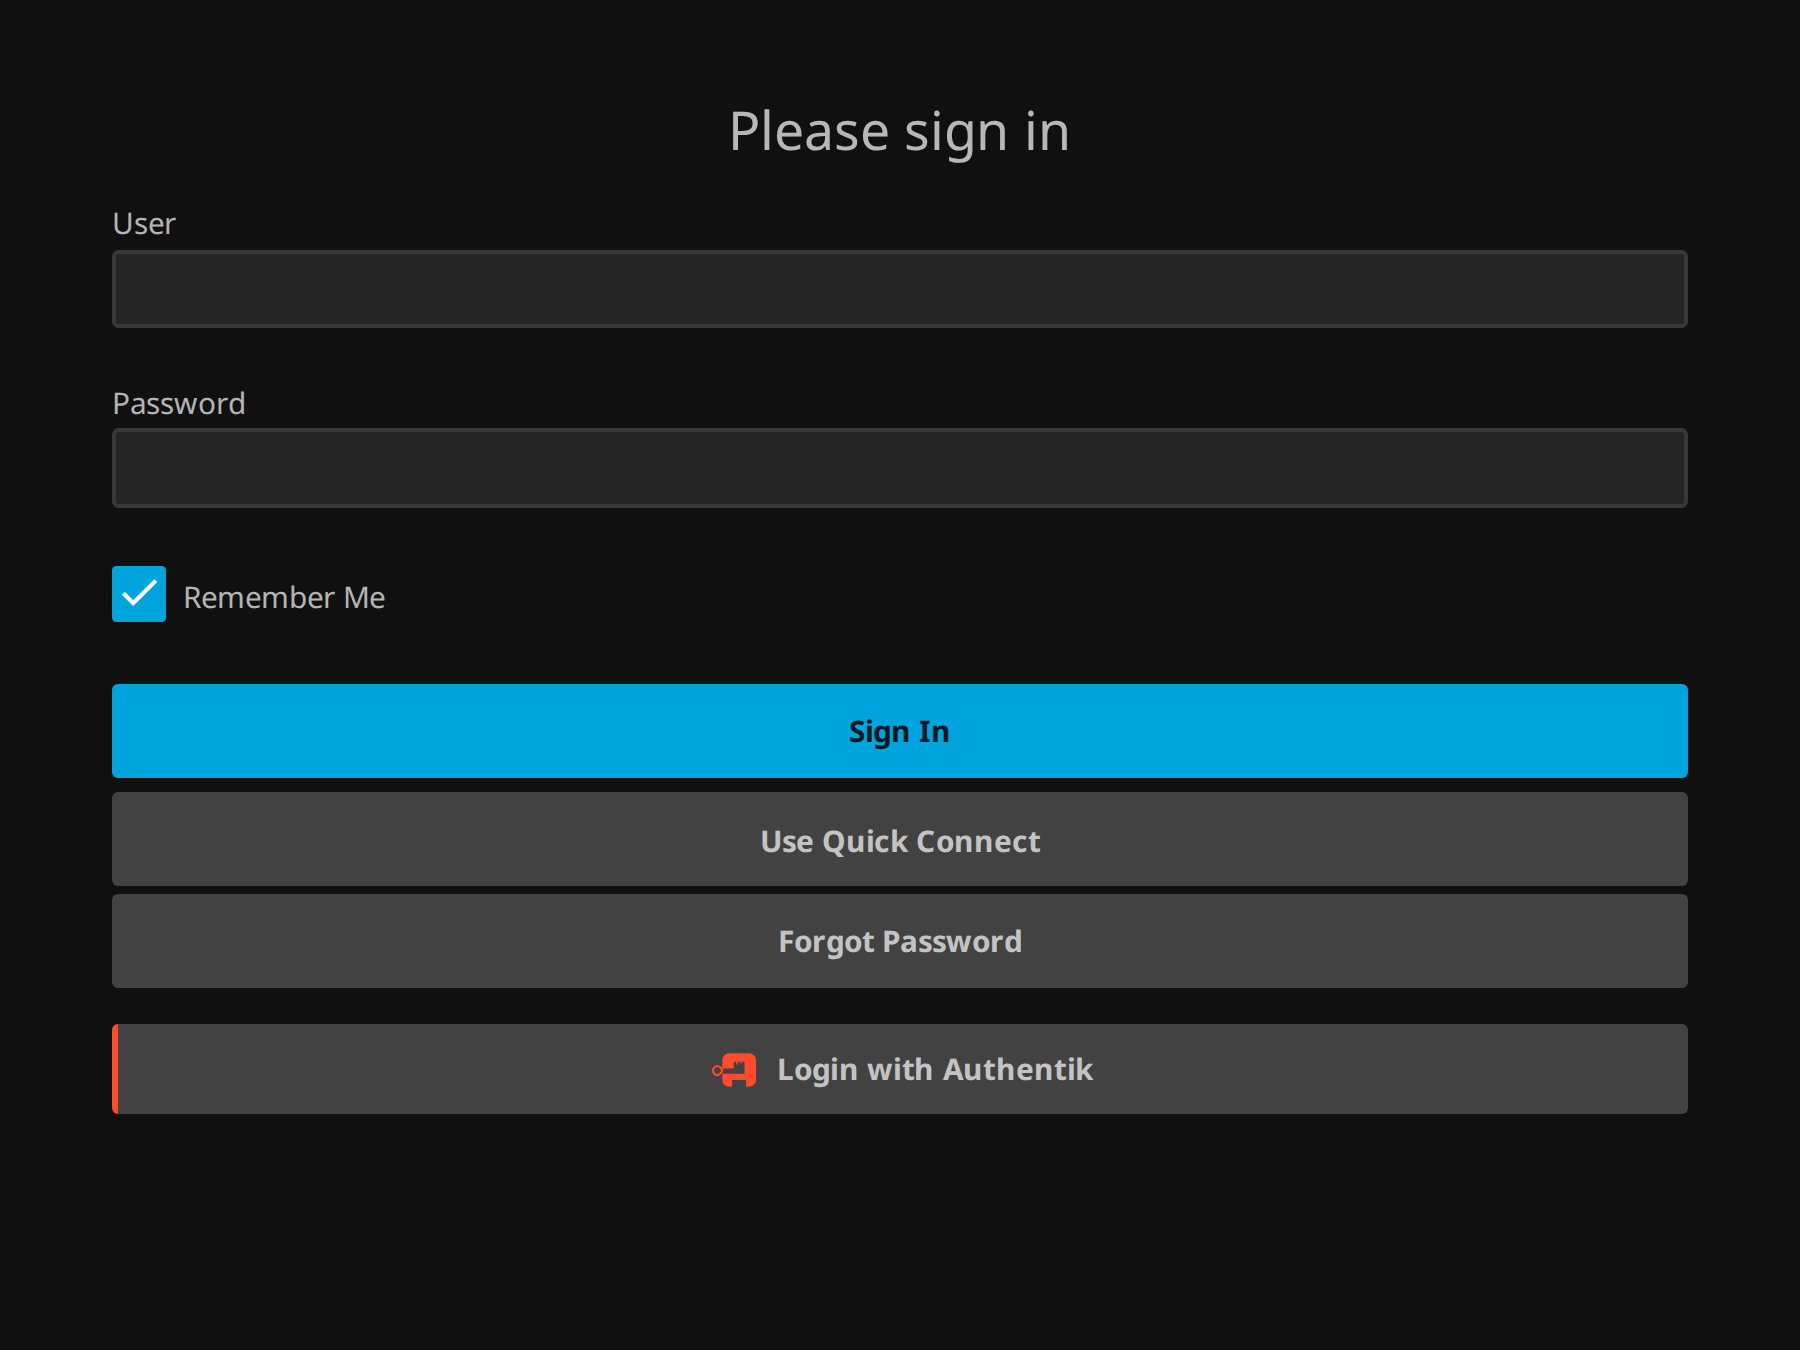
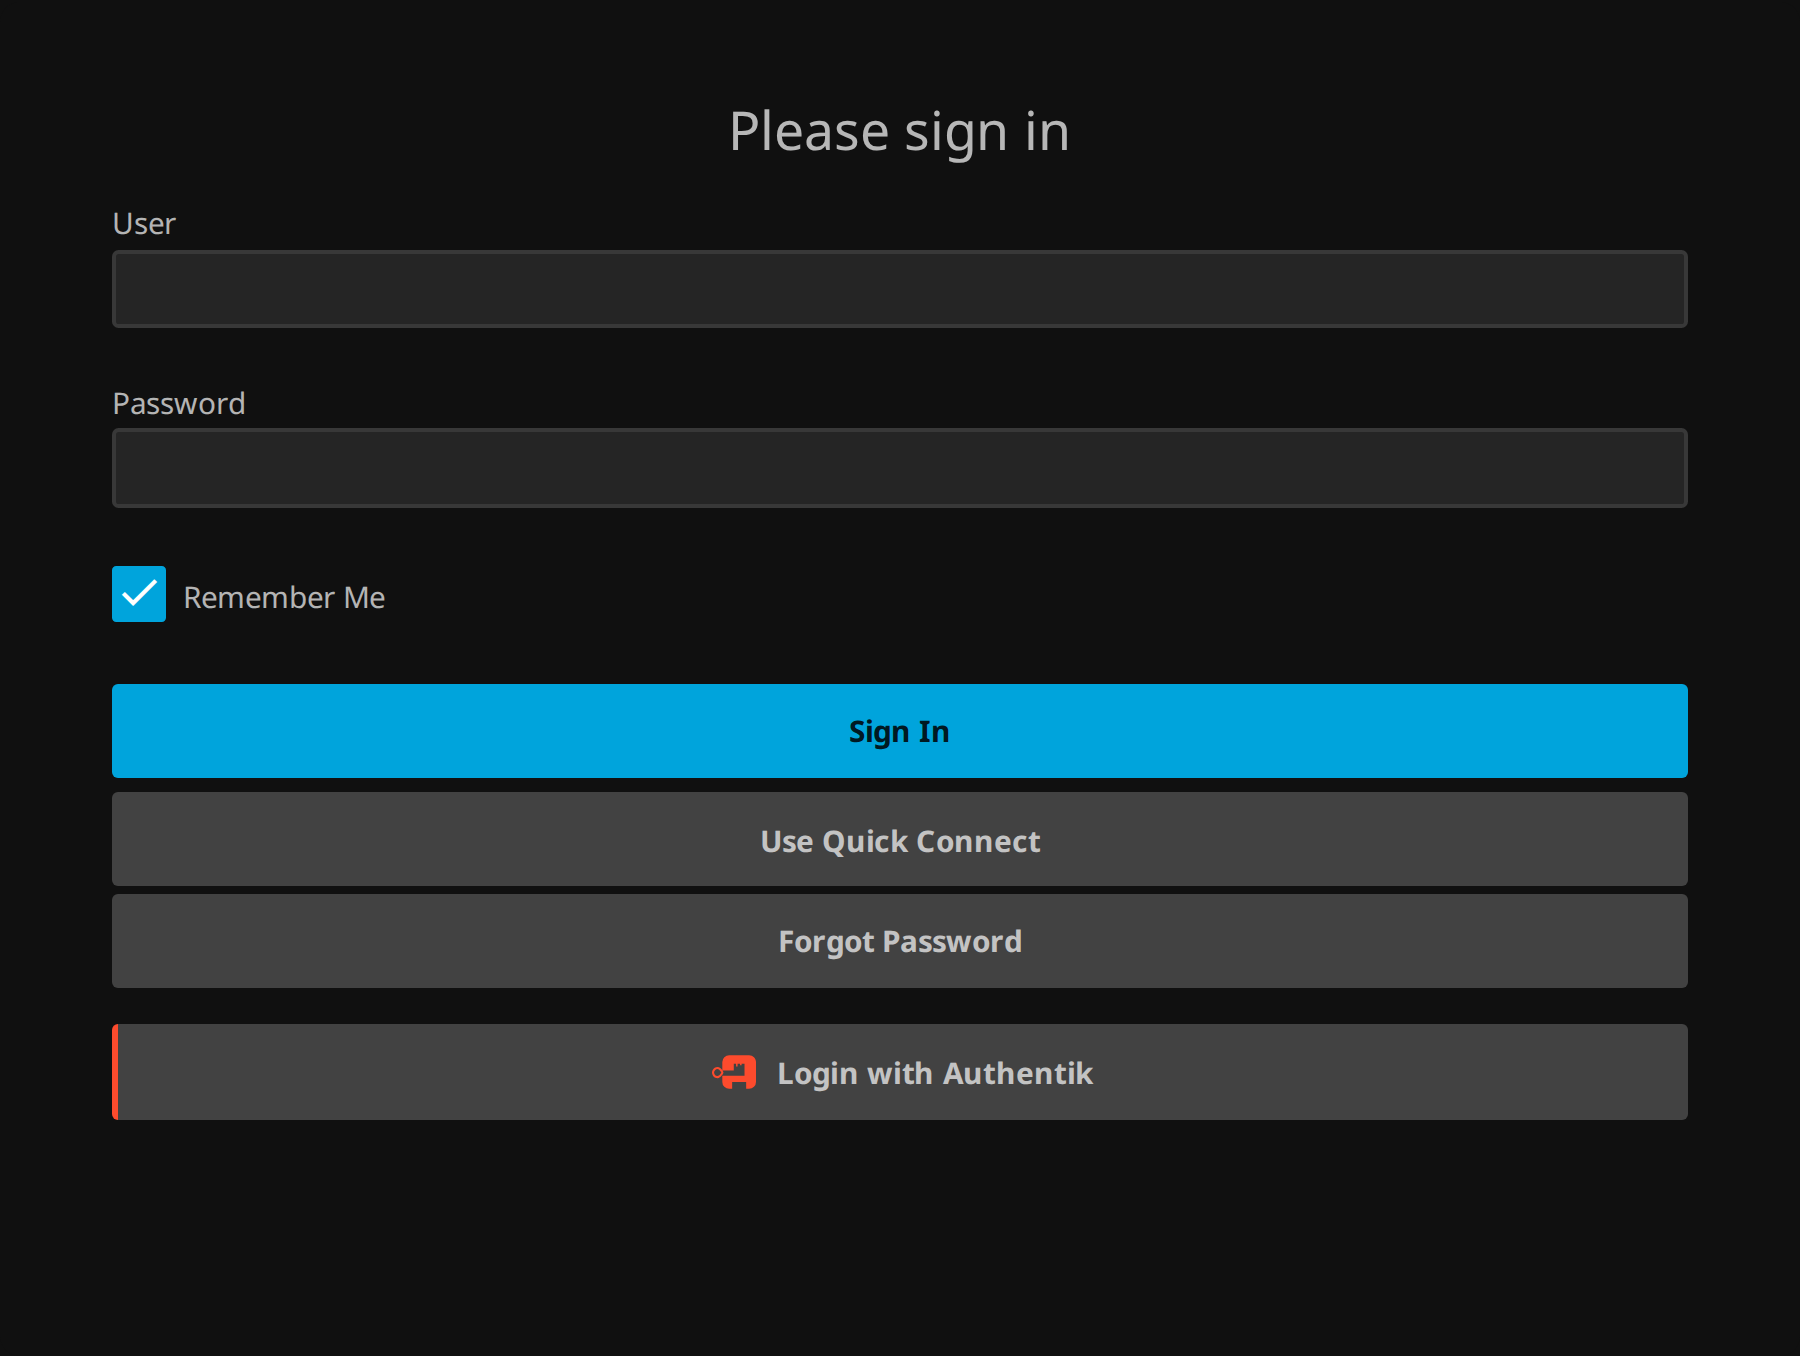
Make the login button start a login (#31)
The button has looked right since 1.12.6 and never worked. jellyfin-web
walks every link in the login disclaimer and rewrites it:

  elem.rel = 'noopener noreferrer';
  elem.target = '_blank';
  elem.setAttribute('is', 'emby-linkbutton');

and emby-button.js hands a target-less anchor to Jellyfin's own router,
which knows nothing about /sso/oidc/start and quietly re-renders the
login page. With a target it opens a second tab instead. No attribute
avoids it, because the controller overwrites rel and target itself.

So the button is a form now: method=get, action=/sso/oidc/start/{id},
with a submit button carrying the same classes and the same mark. A
submitted form is an ordinary navigation, and the rewrite only touches
anchors.

Two tests click a button instead of navigating to the start endpoint, as
every login test did until now — which is how markup that looked correct
passed everything:

  BrowserLoginTests.Clicking_the_button_on_the_login_page_signs_the_user_in
  LoginFormButtonTests.Clicking_the_button_in_the_form_signs_the_user_in

Closes #30

Claude-Session: https://claude.ai/code/session_01TvEDqocov32nLFTRQJQQ6m

diff --git a/Jellyfin.Plugin.Sso/Web/LoginButtonMarkup.cs b/Jellyfin.Plugin.Sso/Web/LoginButtonMarkup.cs
@@ -47,13 +47,14 @@ public static class LoginButtonMarkup
               // 3.7px right of the column of buttons above it; the branding stylesheet
               // is loaded before the app's, so equal specificity is not enough.
               // LoginButtonLayoutTests measures that.
-              + ".loginDisclaimer a.sso-login-button{display:flex;align-items:center;"
+              + ".loginDisclaimer .sso-login-form{margin:0;padding:0;width:100%;}"
+              + ".loginDisclaimer .sso-login-button{display:flex;align-items:center;"
               + "justify-content:center;gap:.7em;width:100%;box-sizing:border-box;"
               + "margin:.4em 0 0 !important;"
               + "font-weight:600;letter-spacing:.01em;"
               + "border-left:3px solid var(--sso-mark, #00a4dc);"
               + "transition:background .15s ease;}"
-              + ".loginDisclaimer a.sso-login-button:hover{background:#4a4a4a;}"
+              + ".loginDisclaimer .sso-login-button:hover{background:#4a4a4a;}"
               + ".sso-login-mark{flex:0 0 auto;display:block;}"
               + ".sso-login-label{display:block;font-weight:600;}"
               + string.Concat(providers.Select(p =>
@@ -86,20 +87,27 @@ public static class LoginButtonMarkup
                 ? "Login with SSO"
                 : $"Login with {provider.Name}";
 
+            // A form, not a link. jellyfin-web walks every <a> in the disclaimer and
+            // forces target="_blank" and is="emby-linkbutton" on it, and that element's
+            // click handler hands a target-less href to its own router — which does not
+            // know /sso/oidc/start and quietly re-renders the login page. So a link here
+            // either does nothing or opens the login in a second tab. A submitted form is
+            // an ordinary navigation that no router sees.
+            //
             // Inline styles are stripped from the disclaimer before it is rendered, so the
             // look has to come from Jellyfin's own classes: "emby-button block" makes a
-            // full-width button, "raised" gives it the secondary surface, and the themes
-            // style an anchor's text only under a[data-role=button] — without it the label
-            // keeps the link colour and disappears on a coloured button.
+            // full-width button and "raised" gives it the secondary surface. The classes
+            // only carry the styling; the behaviour that breaks links is attached to
+            // anchors alone.
             markup
-                .Append("<a data-role=\"button\" class=\"raised block emby-button sso-login-button\" ")
-                .Append("data-provider=\"")
-                .Append(WebUtility.HtmlEncode(provider.Id))
-                .Append("\" href=\"")
+                .Append("<form class=\"sso-login-form\" method=\"get\" action=\"")
                 .Append(prefix)
                 .Append("/sso/oidc/start/")
                 .Append(WebUtility.UrlEncode(provider.Id))
-                .Append("\"><img src=\"")
+                .Append("\"><button type=\"submit\" data-provider=\"")
+                .Append(WebUtility.HtmlEncode(provider.Id))
+                .Append("\" class=\"raised block emby-button sso-login-button\">")
+                .Append("<img src=\"")
                 .Append(prefix)
                 .Append("/sso/icon/provider/")
                 .Append(WebUtility.UrlEncode(provider.Id))
@@ -107,7 +115,7 @@ public static class LoginButtonMarkup
                 .Append("<span class=\"sso-login-label\">")
                 .Append(WebUtility.HtmlEncode(label))
                 .Append("</span>")
-                .Append("</a>");
+                .Append("</button></form>");
         }
 
         return markup.Append(End).ToString();

diff --git a/tests/Jellyfin.Plugin.Sso.E2eTests/BrowserLoginTests.cs b/tests/Jellyfin.Plugin.Sso.E2eTests/BrowserLoginTests.cs
@@ -77,6 +77,52 @@ public sealed class BrowserLoginTests : IAsyncLifetime
     }
 
     [Fact]
+    public async Task Clicking_the_button_on_the_login_page_signs_the_user_in()
+    {
+        _env.Idp.NextUser = new FakeUser("sub-click", "clickuser", ["media"]);
+        await _env.PatchConfigAsync(config =>
+            config["Providers"]!.AsArray()[0]!["Name"] = "Fake IdP");
+
+        await using var context = await _browser.NewContextAsync(new BrowserNewContextOptions
+        {
+            BaseURL = _env.BaseUrl,
+            IgnoreHTTPSErrors = true,
+        });
+        var page = await context.NewPageAsync();
+
+        var consoleErrors = new List<string>();
+        page.Console += (_, message) =>
+        {
+            if (message.Type == "error")
+            {
+                consoleErrors.Add(message.Text);
+            }
+        };
+
+        // The path a household actually takes: the login page, then the button, rather
+        // than the start endpoint typed into the address bar.
+        await page.GotoAsync("/web/index.html#/login.html");
+        var button = page.Locator("button.sso-login-button");
+        await button.WaitForAsync(new LocatorWaitForOptions
+        {
+            State = WaitForSelectorState.Visible,
+            Timeout = 30_000,
+        });
+        var markup = await button.EvaluateAsync<string>("el => el.outerHTML");
+        await button.ClickAsync();
+        await page.WaitForTimeoutAsync(2_000);
+
+        if (page.Url.Contains("login", StringComparison.OrdinalIgnoreCase))
+        {
+            Assert.Fail($"still on the login page.\nurl: {page.Url}\nanchor: {markup}\n"
+                + $"console: {string.Join(" | ", consoleErrors)}");
+        }
+
+        await WaitForSignedInAsync(page, "login-page-button", consoleErrors);
+        Assert.DoesNotContain("login.html", page.Url);
+    }
+
+    [Fact]
     public async Task The_session_survives_a_reload()
     {
         _env.Idp.NextUser = new FakeUser("sub-reload", "reloaduser", ["media"]);

diff --git a/tests/Jellyfin.Plugin.Sso.E2eTests/LoginFormButtonTests.cs b/tests/Jellyfin.Plugin.Sso.E2eTests/LoginFormButtonTests.cs
@@ -97,6 +97,47 @@ public sealed class LoginFormButtonTests : IAsyncLifetime
         Assert.True(await page.Locator("form a.sso-form-button").CountAsync() > 0);
     }
 
+    [Fact]
+    public async Task Clicking_the_button_in_the_form_signs_the_user_in()
+    {
+        await EnableAsync();
+        _env.Idp.NextUser = new FakeUser("sub-form-click", "formclickuser", ["media"]);
+
+        await using var context = await _browser.NewContextAsync(new BrowserNewContextOptions
+        {
+            BaseURL = _env.BaseUrl,
+            IgnoreHTTPSErrors = true,
+        });
+        var page = await context.NewPageAsync();
+        await page.GotoAsync("/web/index.html#/login.html");
+
+        var button = page.Locator("a.sso-form-button").First;
+        await button.WaitForAsync(new LocatorWaitForOptions
+        {
+            State = WaitForSelectorState.Visible,
+            Timeout = 30_000,
+        });
+        await button.ClickAsync();
+
+        // jellyfin-web routes anchor clicks through its own router wherever it owns the
+        // element. This one is added to the form by the plugin's own script, so it has to
+        // navigate like any link — and the login has to end in a session.
+        try
+        {
+            await page.WaitForFunctionAsync(
+                "() => !!(window.ApiClient && window.ApiClient.accessToken() && window.ApiClient.getCurrentUserId())",
+                null,
+                new PageWaitForFunctionOptions { Timeout = 30_000 });
+        }
+        catch (TimeoutException)
+        {
+            await BrowserSupport.CaptureAsync(page, "form-button-click");
+            Assert.Fail($"The button in the form did not sign anybody in.\nurl: {page.Url}");
+        }
+
+        Assert.DoesNotContain("login.html", page.Url);
+    }
+
     private Task EnableAsync()
         => _env.PatchConfigAsync(config =>
         {

diff --git a/tests/Jellyfin.Plugin.Sso.Tests/LoginButtonMarkupTests.cs b/tests/Jellyfin.Plugin.Sso.Tests/LoginButtonMarkupTests.cs
@@ -18,8 +18,8 @@ public sealed class LoginButtonMarkupTests
         var block = LoginButtonMarkup.Build(
             [Provider("p1", "Authentik"), Provider("p2", "Keycloak")], basePath: string.Empty);
 
-        Assert.Contains("href=\"/sso/oidc/start/p1\"", block);
-        Assert.Contains("href=\"/sso/oidc/start/p2\"", block);
+        Assert.Contains("action=\"/sso/oidc/start/p1\"", block);
+        Assert.Contains("action=\"/sso/oidc/start/p2\"", block);
         Assert.Contains("Login with Authentik", block);
         Assert.Contains("Login with Keycloak", block);
     }
@@ -29,7 +29,7 @@ public sealed class LoginButtonMarkupTests
     {
         var block = LoginButtonMarkup.Build([Provider("p1", "Authentik")], basePath: "/jellyfin");
 
-        Assert.Contains("href=\"/jellyfin/sso/oidc/start/p1\"", block);
+        Assert.Contains("action=\"/jellyfin/sso/oidc/start/p1\"", block);
     }
 
     [Theory]
@@ -38,7 +38,7 @@ public sealed class LoginButtonMarkupTests
     public void The_sub_path_is_normalised(string basePath)
     {
         Assert.Contains(
-            "href=\"/jellyfin/sso/oidc/start/p1\"",
+            "action=\"/jellyfin/sso/oidc/start/p1\"",
             LoginButtonMarkup.Build([Provider("p1", "Authentik")], basePath));
     }
 
@@ -49,7 +49,7 @@ public sealed class LoginButtonMarkupTests
             [new ProviderConfig { Id = "p1", Name = "   ", Enabled = true }], basePath: string.Empty);
 
         Assert.Contains("Login with SSO", block);
-        Assert.Contains("href=\"/sso/oidc/start/p1\"", block);
+        Assert.Contains("action=\"/sso/oidc/start/p1\"", block);
     }
 
     [Fact]

diff --git a/tests/Jellyfin.Plugin.Sso.E2eTests/LoginButtonLayoutTests.cs b/tests/Jellyfin.Plugin.Sso.E2eTests/LoginButtonLayoutTests.cs
@@ -47,7 +47,7 @@ public sealed class LoginButtonLayoutTests : IAsyncLifetime
         var page = await context.NewPageAsync();
         await page.GotoAsync("/web/index.html#/login.html");
 
-        var ours = page.Locator("a.sso-login-button");
+        var ours = page.Locator("button.sso-login-button");
         await ours.First.WaitForAsync(new LocatorWaitForOptions
         {
             State = WaitForSelectorState.Visible,
@@ -63,7 +63,7 @@ public sealed class LoginButtonLayoutTests : IAsyncLifetime
         var diagnostics = await page.EvaluateAsync<string>(
             """
             () => {
-              const button = document.querySelector('a.sso-login-button');
+              const button = document.querySelector('button.sso-login-button');
               const style = getComputedStyle(button);
               const sheets = [...document.querySelectorAll('style')]
                 .filter(s => (s.textContent || '').includes('sso-login-button')).length;

diff --git a/tests/Jellyfin.Plugin.Sso.E2eTests/ScreenshotTests.cs b/tests/Jellyfin.Plugin.Sso.E2eTests/ScreenshotTests.cs
@@ -116,7 +116,7 @@ public sealed class ScreenshotTests : IAsyncLifetime
 
         try
         {
-            await page.WaitForSelectorAsync("a[href*='/sso/oidc/start/']", new PageWaitForSelectorOptions
+            await page.WaitForSelectorAsync("button.sso-login-button", new PageWaitForSelectorOptions
             {
                 State = WaitForSelectorState.Visible,
                 Timeout = 20_000,
@@ -138,7 +138,7 @@ public sealed class ScreenshotTests : IAsyncLifetime
         var framed = await page.EvaluateAsync<bool>(
             """
             () => {
-              const link = document.querySelector("a[href*='/sso/oidc/start/']");
+              const link = document.querySelector("button.sso-login-button");
               const form = document.querySelector('form');
               if (!link || !form) return false;
               let node = form;

diff --git a/tests/Jellyfin.Plugin.Sso.Tests/HostileInputTests.cs b/tests/Jellyfin.Plugin.Sso.Tests/HostileInputTests.cs
@@ -126,8 +126,9 @@ public sealed class HostileInputTests
             const string LabelOpen = "<span class=\"sso-login-label\">";
             var label = markup[(markup.IndexOf(LabelOpen, StringComparison.Ordinal) + LabelOpen.Length)..];
             Assert.DoesNotContain("<", label[..label.IndexOf("</span>", StringComparison.Ordinal)]);
-            Assert.Equal(1, Occurrences(markup, "</a>"));
-            Assert.Equal(1, Occurrences(markup, "<a "));
+            Assert.Equal(1, Occurrences(markup, "</form>"));
+            Assert.Equal(1, Occurrences(markup, "<form "));
+            Assert.Equal(1, Occurrences(markup, "</button>"));
         }
     }
 
